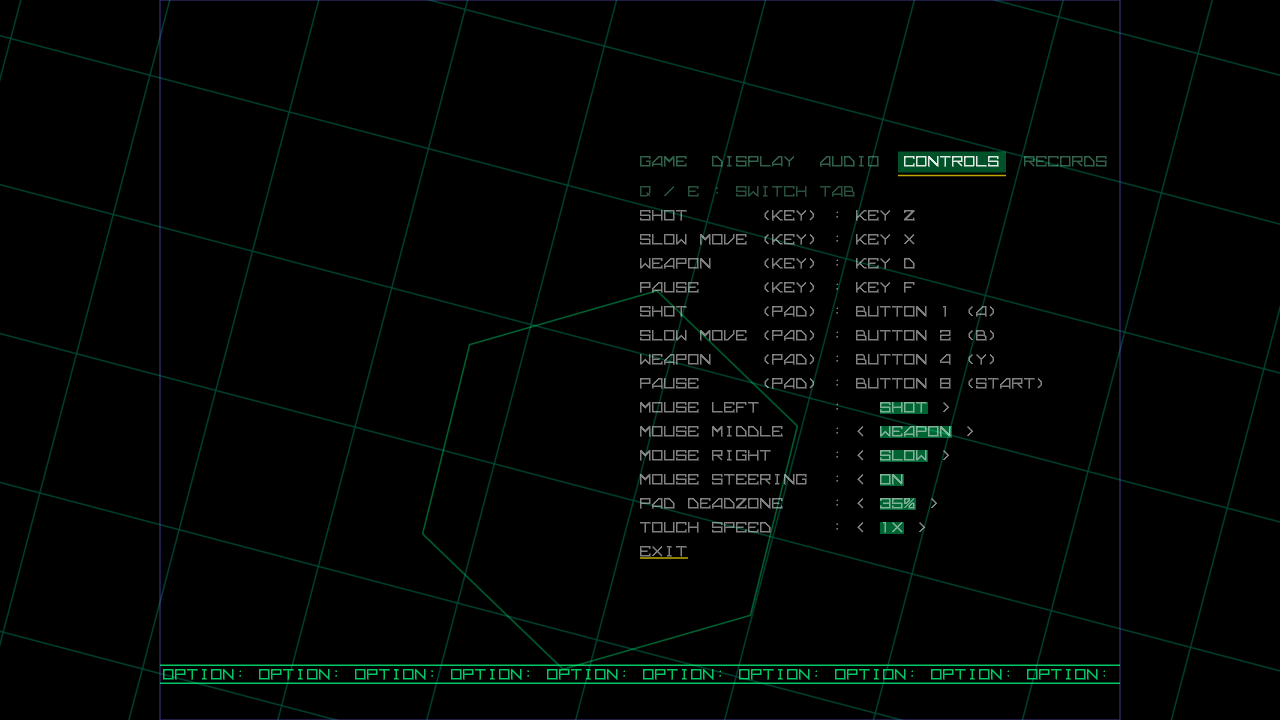
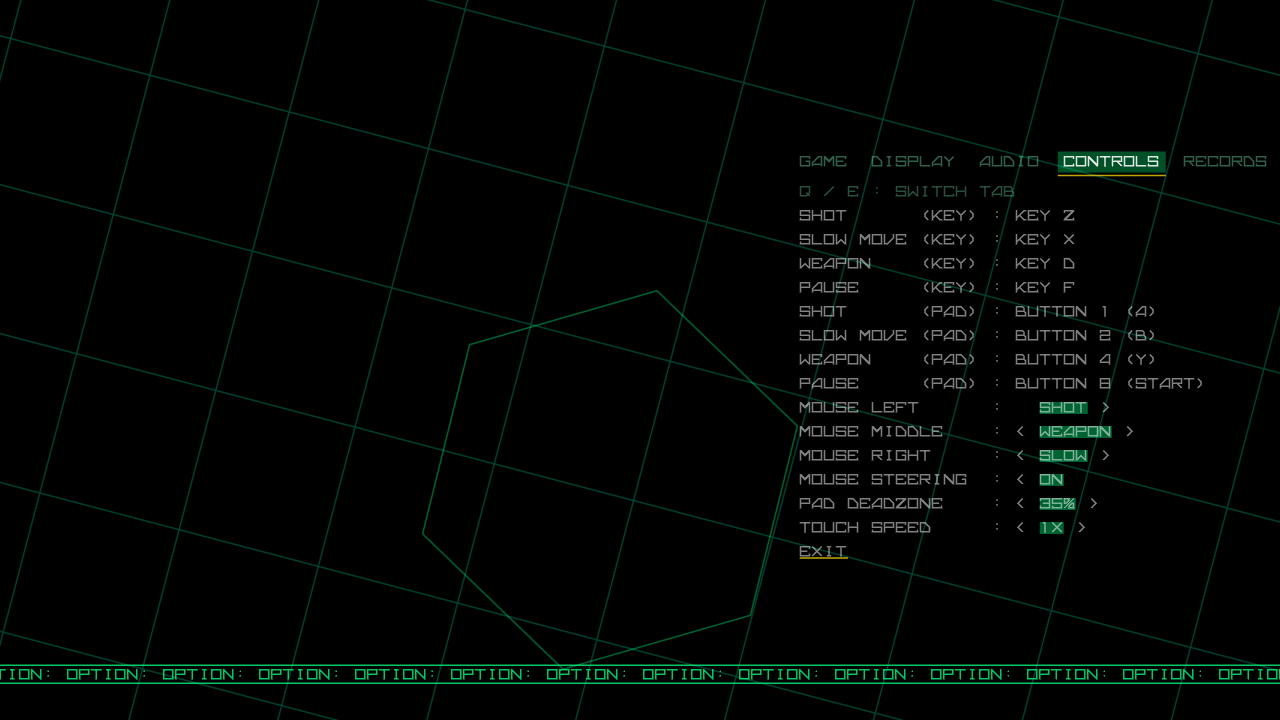
Menus lay out to the whole window
The title (with the arena choice and the score table) and the options
screen are drawn to the window's full logical size (480 high by the
window's aspect, or 640 wide and taller below 4:3) instead of the 640x480
box: no clipping to the arena, no arena border, and never a render scale.

- DrawList::menu marks a menu frame; the renderer then leaves the arena
  pass unclipped, the scaler draws at the window's resolution and the
  border is skipped. Stage::is_menu sets it (title and options).
- Cx::screen_view gives the window's rect around the 640x480 arena.
- Title: the score table keeps to the top-left corner, the menu, cursor
  and arena choice to the bottom-left; the logo, sweeps and hexagon stay
  centred.
- Options: the tabs and items keep to the right edge (the pointer
  hit-tests follow them); the OPTION band sits at the bottom and repeats
  across the whole width.

Display only: the hash log through the title into a game is identical at
640x480 and 2000x1253. Docs screenshots refreshed (the game shots also
pick up the Slug coverage fix), with new 2000x1253 title and options.

Changed region(s): [[0.5, 0.1833, 1.0, 0.7944], [0.875, 0.9167, 1.0, 0.9778], [0.0, 0.9167, 0.125, 0.9778]]

diff --git a/crates/wf/src/game/fn_option.rs b/crates/wf/src/game/fn_option.rs
@@ -573,6 +573,13 @@ impl FnOption {
         (row < Self::tab_items(cx).len()).then_some(row)
     }
 
+    /// Where the tabs and items are drawn from: kept to the window's right
+    /// edge, as they keep to the 640x480 screen's in the original.
+    fn block_origin(cx: &Cx) -> [f32; 2] {
+        let [vx, _, vw, _] = cx.screen_view();
+        [vx + vw - 640.0, 0.0]
+    }
+
     /// The tab-switch prompt for the device used last.
     fn hint(cx: &Cx) -> &'static str {
         match cx.ui.device {
@@ -586,7 +593,12 @@ impl FnOption {
     /// The pointer and the tab keys (display only: the options are not
     /// recorded). Returns the menu bits a click makes.
     fn pointer(&mut self, cx: &mut Cx, remap: Option<Kind>) -> u16 {
-        let ui = cx.ui.clone();
+        let mut ui = cx.ui.clone();
+        // Into the block's own units (it is drawn moved by `block_origin`).
+        let o = Self::block_origin(cx);
+        let local = |p: [f32; 2]| [p[0] - o[0], p[1] - o[1]];
+        ui.cursor = ui.cursor.map(local);
+        ui.click = ui.click.map(local);
         let tab = cx.options.tab;
         let n = TABS.len();
         // A key or button being remapped wins over the tab keys it shares.
@@ -835,6 +847,7 @@ impl Stage for FnOption {
         cx.draw.sprite(cx.art.shapes.hexagon, &t, Argb(0x6400_ff80), Blend::Normal);
 
         let id = Transform::IDENTITY;
+        cx.draw.set_origin(Self::block_origin(cx));
         // The tab strip: the current tab boxed and underlined.
         let tab = cx.options.tab;
         for (i, (name, _)) in TABS.iter().enumerate() {
@@ -879,9 +892,22 @@ impl Stage for FnOption {
             let y = ROW_Y + row as f32 * ROW_H;
             cx.fonts.small_text.print(&mut cx.draw, 320.0 + dx, y.trunc(), &self.items[item as usize], None, text, -1, Blend::Normal);
         }
-        let mut t = Transform::IDENTITY;
-        t.m[2][0] = -(((cx.app.frame_count & 0x3f) * 2) as f32);
-        t.m[2][1] = 450.0;
-        texels::draw(cx, &texels::font2_strip(1), &t, &TITLE_BAR, &TITLE_BAR_TEXELS, 0xc800_ff80);
+        // The band, at the window's bottom and repeated across its width
+        // (the text repeats every 64 units, so the copies join seamlessly).
+        cx.draw.set_origin([0.0, 0.0]);
+        let [vx, vy, vw, vh] = cx.screen_view();
+        let scroll = ((cx.app.frame_count & 0x3f) * 2) as f32;
+        let mut x = -scroll + ((vx + scroll) / 768.0).floor() * 768.0;
+        while x < vx + vw {
+            let mut t = Transform::IDENTITY;
+            t.m[2][0] = x;
+            t.m[2][1] = vy + vh - 30.0;
+            texels::draw(cx, &texels::font2_strip(1), &t, &TITLE_BAR, &TITLE_BAR_TEXELS, 0xc800_ff80);
+            x += 768.0;
+        }
+    }
+
+    fn is_menu(&self) -> bool {
+        true
     }
 }

diff --git a/crates/wf/src/game/fn_title.rs b/crates/wf/src/game/fn_title.rs
@@ -151,6 +151,10 @@ impl Stage for FnTitle {
             t.m[2][1] += 320.0;
             cx.draw.sprite(cx.art.shapes.hexagon, &t, Argb(0x8000_ff80), Blend::Normal);
         }
+        // The menu keeps to the window's bottom-left corner and the scores
+        // to its top-left; the logo and the hexagon stay centred.
+        let [vx, vy, _, vh] = cx.screen_view();
+        cx.draw.set_origin([vx, vy + vh - 480.0]);
         if self.flags & FLAG_MENU_CURSOR != 0 {
             let t = Transform::translation(128.0, 408.0);
             cx.draw.sprite(cx.art.shapes.menu_cursor, &t, Argb(((self.cursor_alpha as u32) << 24) | 0xffdd00), Blend::Normal);
@@ -165,6 +169,7 @@ impl Stage for FnTitle {
             cx.fonts.small_text.print(&mut cx.draw, 48.0, 436.0, note.as_bytes(), None, Argb(0x8000_ff80), -1, Blend::Normal);
             cx.fonts.small_text.print(&mut cx.draw, 48.0, 380.0, b"SELECT ARENA", None, Argb(0x80ff_c800), -1, Blend::Normal);
         }
+        cx.draw.set_origin([vx, vy]);
         if self.time >= 301 {
             let alpha = (-1i32).wrapping_sub(cx.app.frame_count.wrapping_mul(4) as i32) & 0xff;
             let mut palette = [Argb(0); 10];
@@ -174,7 +179,12 @@ impl Stage for FnTitle {
             let mode: &[u8] = if cx.scores.is_hd() { b"HD SCORES" } else { b"CLASSIC SCORES" };
             cx.fonts.small_text.print(&mut cx.draw, 32.0, 24.0, mode, None, palette[0], self.scores_shown.min(mode.len() as i16) as i32, Blend::Normal);
         }
+        cx.draw.set_origin([0.0, 0.0]);
         actor::draw_all(cx);
+    }
+
+    fn is_menu(&self) -> bool {
+        true
     }
 
     /// Move (0x41e300).

diff --git a/crates/wf/src/game/mod.rs b/crates/wf/src/game/mod.rs
@@ -210,6 +210,16 @@ impl Cx {
         }
     }
 
+    /// The window as a rect (x, y, width, height) in the units of the
+    /// 640x480 arena it is centred on: 480 high and as wide as the window's
+    /// aspect, or 640 wide and taller for a window narrower than 4:3. The
+    /// menus lay out to it (display only).
+    pub fn screen_view(&self) -> [f32; 4] {
+        let wa = self.window_arena_width.max(1.0);
+        let (w, h) = if wa >= arena::W { (wa, 480.0) } else { (arena::W, 480.0 * arena::W / wa) };
+        [(arena::W - w) * 0.5, (480.0 - h) * 0.5, w, h]
+    }
+
     /// The arena a game started now gets.
     pub fn chosen_arena(&self) -> arena::Arena {
         match self.arena_choice {

diff --git a/crates/wf/src/game/app.rs b/crates/wf/src/game/app.rs
@@ -17,6 +17,11 @@ pub trait Stage {
     fn update(&mut self, _cx: &mut Cx) {}
     /// Called every frame after the tasks ran, before the overlays.
     fn draw(&mut self, _cx: &mut Cx) {}
+    /// A menu screen (the port's): laid out to the whole window rather
+    /// than the 640x480 arena (see `Cx::screen_view`).
+    fn is_menu(&self) -> bool {
+        false
+    }
 }
 
 /// Application flags (AppSettings::Flags).
@@ -155,6 +160,7 @@ impl App {
             task::remove_up_to(cx, ListId::Overlays, 2);
         }
         cx.draw.reset();
+        cx.draw.menu = stage.is_menu();
         task::run_all(cx, ListId::Tasks);
         stage.draw(cx);
         task::run_all(cx, ListId::Overlays);

diff --git a/crates/wf-engine/src/gfx/mod.rs b/crates/wf-engine/src/gfx/mod.rs
@@ -138,6 +138,9 @@ pub struct DrawList {
     /// The screen fade: this colour at its alpha over the whole finished
     /// frame (alpha 0: none).
     pub fade: Argb,
+    /// A menu screen, laid out to the whole window: the arena pass is not
+    /// clipped to the arena, there is no arena border and no render scale.
+    pub menu: bool,
 }
 
 impl DrawList {
@@ -153,6 +156,7 @@ impl DrawList {
         self.pass = Pass::Arena;
         self.origin = [0.0; 2];
         self.fade = Argb(0);
+        self.menu = false;
     }
 
     /// Moves the draws that follow by `origin` (0, 0 to stop).

diff --git a/crates/wf-engine/src/gfx/scale.rs b/crates/wf-engine/src/gfx/scale.rs
@@ -108,7 +108,8 @@ impl Scaler {
 
     /// Draws `list` for a window of `size` into `out` at `scale`.
     pub fn render(&mut self, r: &mut Renderer, list: &DrawList, out: &wgpu::TextureView, size: (u32, u32), scale: f32) {
-        if (scale - 1.0).abs() < 1e-3 {
+        // Menus are always drawn at the window's resolution.
+        if (scale - 1.0).abs() < 1e-3 || list.menu {
             self.target = None;
             r.render(list, out, size);
             return;

diff --git a/crates/wf-engine/src/gfx/gpu.rs b/crates/wf-engine/src/gfx/gpu.rs
@@ -600,7 +600,7 @@ impl Renderer {
                 multiview_mask: None,
             });
             pass.set_bind_group(0, &self.bind_group, &[]);
-            let [ax, ay, aw, ah] = layout.arena_px;
+            let [ax, ay, aw, ah] = if list.menu { [0, 0, size.0, size.1] } else { layout.arena_px };
             let instances = self.instance_buffer.slice(ring_offset..);
             let mut scissor = None;
             for batch in &self.batches {

diff --git a/crates/wf-engine/src/app.rs b/crates/wf-engine/src/app.rs
@@ -201,7 +201,7 @@ impl Snapshots {
     /// The frame to show at `alpha`.
     pub fn frame(&mut self, alpha: f32, layout: &Layout, border: bool) -> &DrawList {
         gfx::interpolate(&self.prev, &self.cur, alpha, &mut self.shown);
-        if border {
+        if border && !self.shown.menu {
             add_border(&mut self.shown, layout);
         }
         &self.shown

diff --git a/README.md b/README.md
@@ -19,6 +19,12 @@ frame-exact (see [Verification](#verification)).
 | ![options: game](docs/options.png) | ![options: display](docs/options-display.png) |
 | ![options: controls](docs/options-controls.png) | ![fonts](docs/viewer-fonts.png) |
 
+The menus fill the window at any aspect, here 2000x1253:
+
+| | |
+|---|---|
+| ![title, 2000x1253](docs/title-2000x1253.png) | ![options, 2000x1253](docs/options-2000x1253.png) |
+
 The Classic arena in a 21:9 window, with its border:
 ![classic arena border](docs/arena-border.png)
 
